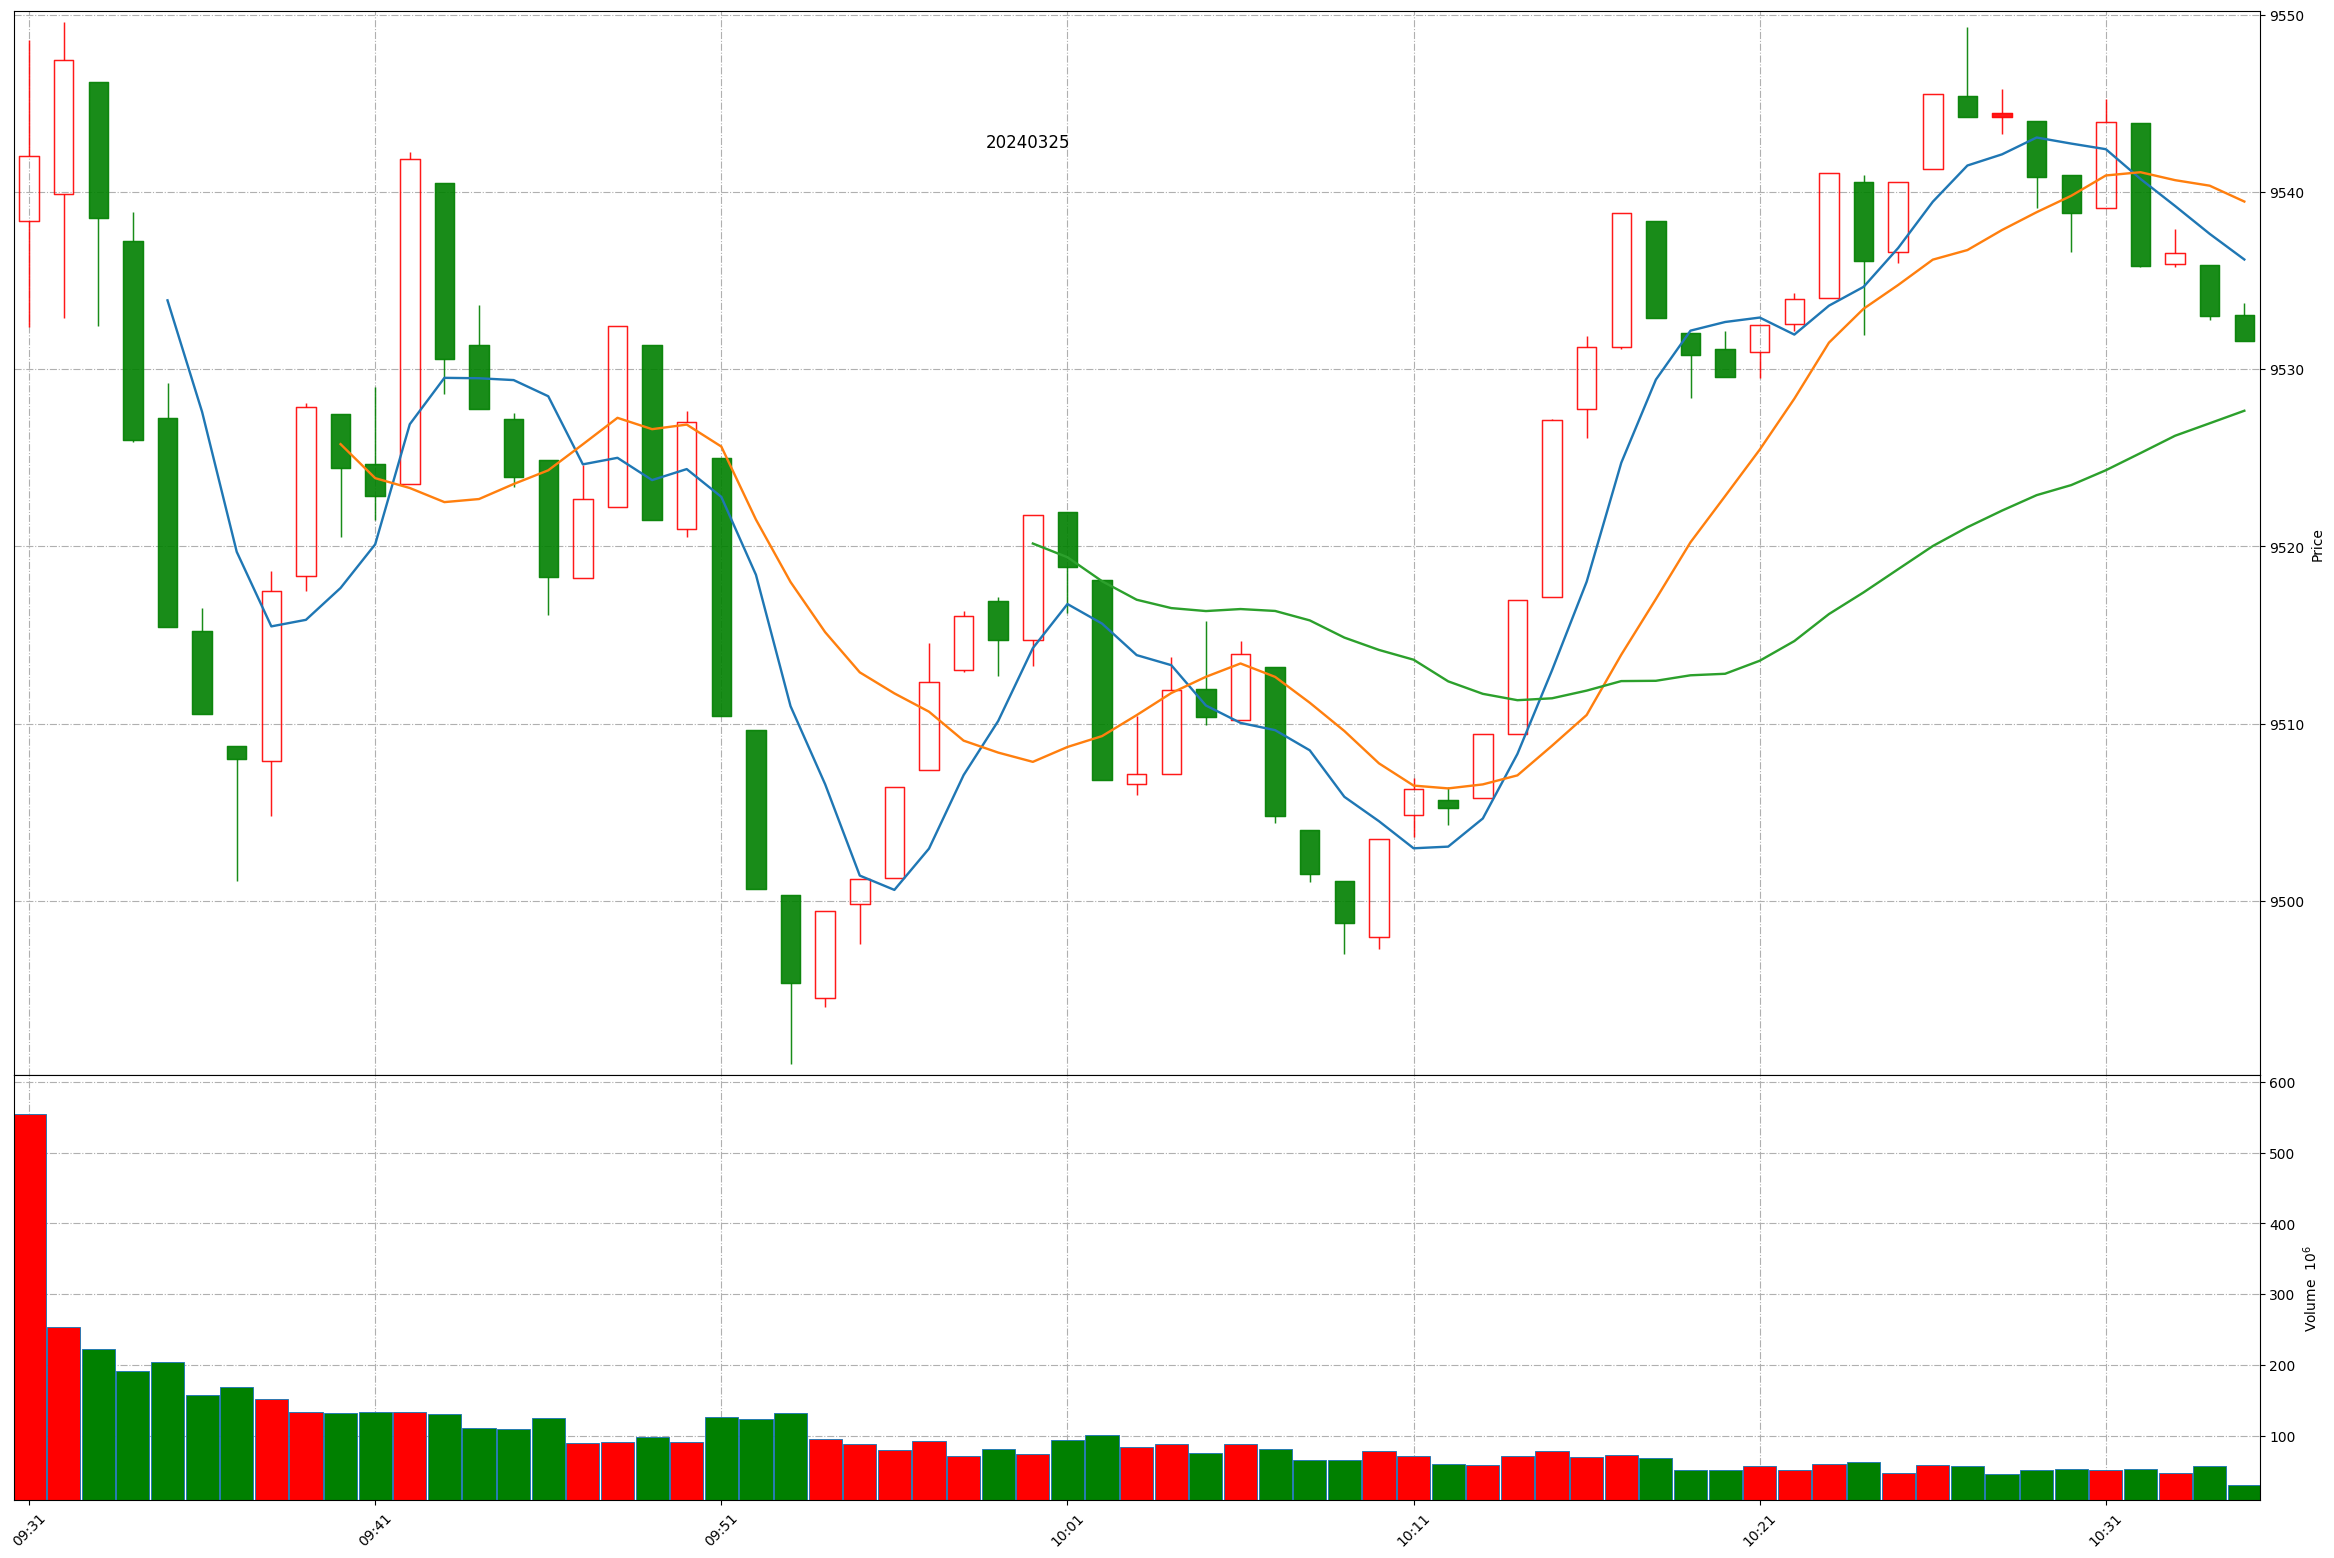
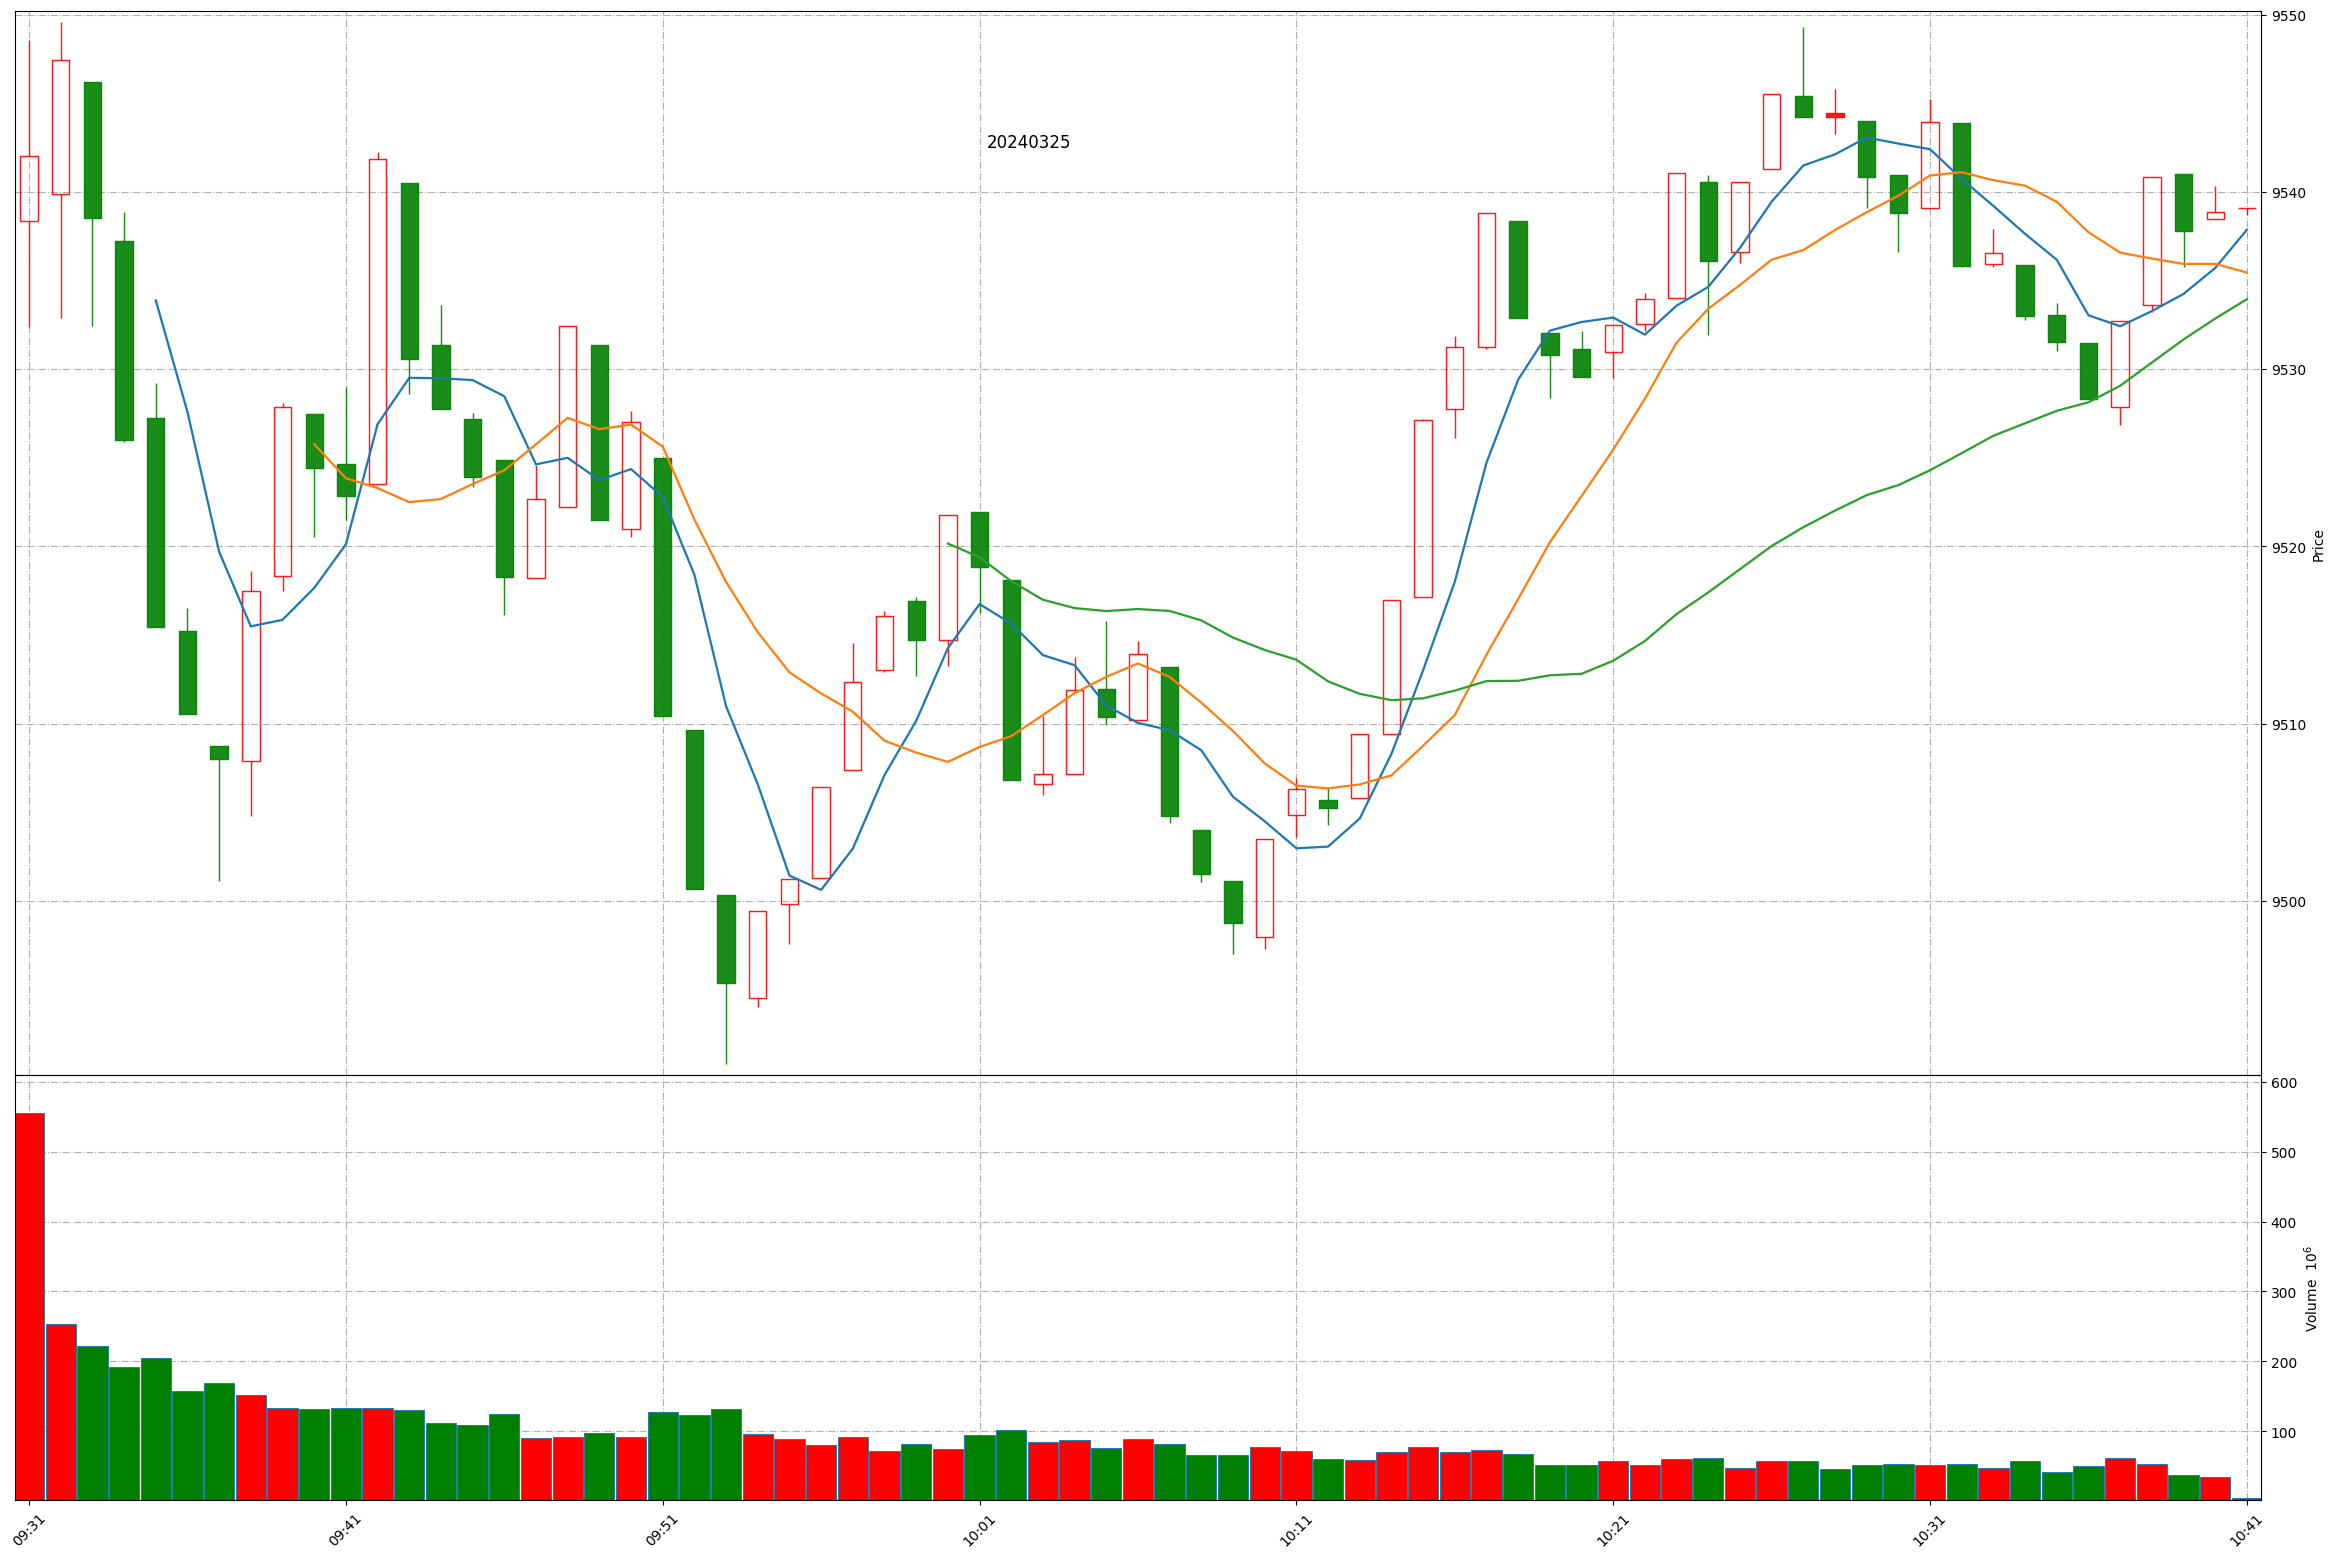
Github action update at 2024-03-25 10:40:17.

diff --git a/README.md b/README.md
@@ -1,11 +1,11 @@
 
 # Daily-A-share-market-quotes 每日 A 股指数（5min 更新）- 20240325
 
-### 上证指数 20240325 10:34
+### 上证指数 20240325 10:40
 ![](./fig/2024/3/20240325-sh000001.png)
 
-### 深证成指 20240325 10:34
+### 深证成指 20240325 10:40
 ![](./fig/2024/3/20240325-sz399001.png)
 
-### 北证50 20240325 10:34
+### 北证50 20240325 10:40
 ![](./fig/2024/3/20240325-bj899050.png)
